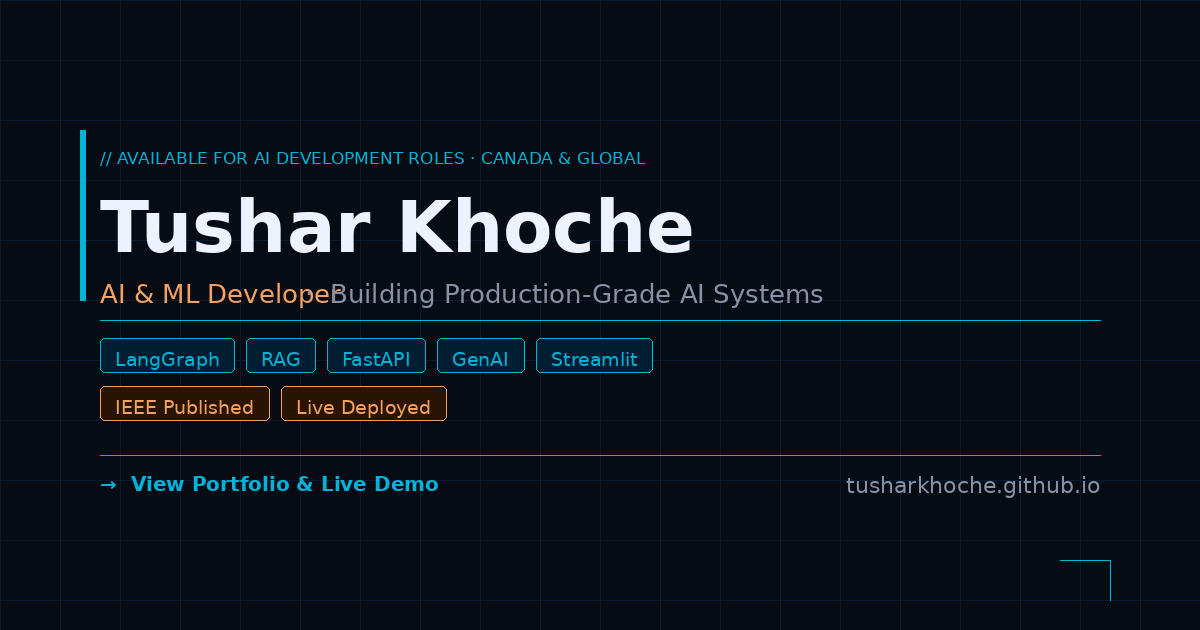
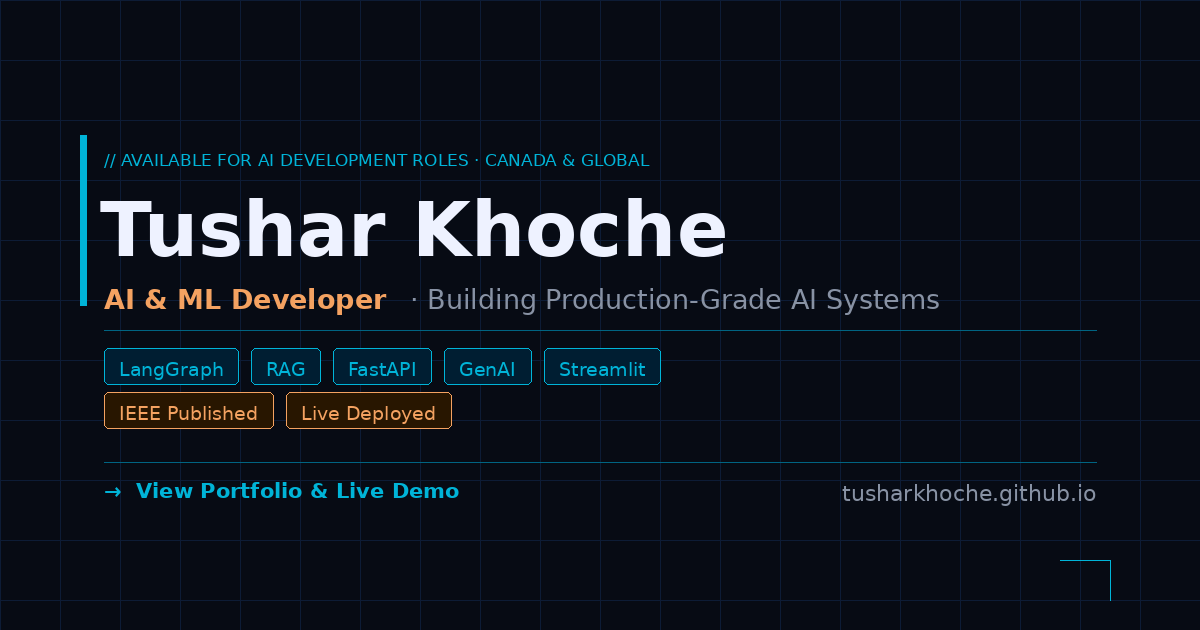
Add files via upload

diff --git a/index.html b/index.html
@@ -601,7 +601,7 @@
     <li><a href="#projects">Projects</a></li>
     <li><a href="#skills">Skills</a></li>
     <li><a href="#experience">Experience</a></li>
-    <li><a href="#publication">Research</a></li>
+    <li><a href="#publication">Writing</a></li>
     <li><a href="#contact">Contact</a></li>
     <li><a href="https://drive.google.com/file/d/1JTp6c3ZKfDNvMgcnQy5kVGKwlZhStLx7/view?usp=sharing" target="_blank" style="color:var(--accent2);border:1px solid rgba(244,162,97,0.4);padding:0.3rem 0.85rem;border-radius:4px;">Resume ↗</a></li>
   </ul>
@@ -965,7 +965,7 @@
 <!-- ── PUBLICATION ── -->
 <section id="publication">
   <p class="section-label reveal">// 05 · Research</p>
-  <h2 class="section-title reveal">Publication</h2>
+  <h2 class="section-title reveal">Publications &amp; Writing</h2>
   <div class="pub-card reveal">
     <div class="pub-badge">📄</div>
     <div class="pub-content">
@@ -977,6 +977,67 @@
       <a href="https://ieeexplore.ieee.org/document/9791545" target="_blank" class="btn btn-outline" style="font-size:0.72rem;padding:0.6rem 1.25rem;">
         View on IEEE Xplore ↗
       </a>
+    </div>
+  </div>
+
+  <!-- Technical Writing -->
+  <div style="margin-top:2.5rem;">
+    <p style="font-family:'IBM Plex Mono',monospace;font-size:0.78rem;color:var(--accent);text-transform:uppercase;letter-spacing:0.08em;margin-bottom:0.5rem;">Technical Writing · Kaggle</p>
+    <p style="color:var(--text-sub);font-size:0.95rem;margin-bottom:1.8rem;max-width:640px;">
+      In-depth notebooks breaking down deep learning concepts from first principles — written to teach, with worked examples and intuition over jargon.
+    </p>
+
+    <!-- Transformer Series -->
+    <div class="pub-card reveal" style="margin-bottom:1.2rem;">
+      <div class="pub-badge">🧠</div>
+      <div class="pub-content">
+        <p class="pub-journal">3-Part Series · Deep Learning Architecture</p>
+        <h3 class="pub-title">What is a Transformer?</h3>
+        <p class="pub-desc">
+          A ground-up explanation of the transformer architecture from "Attention Is All You Need" — why it replaced LSTMs, self-attention with Query/Key/Value vectors, dot-product attention scoring, softmax weighting, and how multiple attention layers combine into multi-head attention within an encoder-decoder model. Intuition-first, with original worked examples.
+        </p>
+        <div style="display:flex;flex-wrap:wrap;gap:0.5rem;">
+          <a href="https://www.kaggle.com/code/tusharkhoche/what-is-a-transformer-part-1" target="_blank" class="btn btn-outline" style="font-size:0.7rem;padding:0.5rem 1rem;">Part 1 ↗</a>
+          <a href="https://www.kaggle.com/code/tusharkhoche/what-is-a-transformer-part-2" target="_blank" class="btn btn-outline" style="font-size:0.7rem;padding:0.5rem 1rem;">Part 2 ↗</a>
+          <a href="https://www.kaggle.com/code/tusharkhoche/what-is-a-transformer-part-3" target="_blank" class="btn btn-outline" style="font-size:0.7rem;padding:0.5rem 1rem;">Part 3 ↗</a>
+        </div>
+      </div>
+    </div>
+
+    <!-- Seq2Seq LSTM Series -->
+    <div class="pub-card reveal" style="margin-bottom:1.2rem;">
+      <div class="pub-badge">🔁</div>
+      <div class="pub-content">
+        <p class="pub-journal">5-Part Series · NLP &amp; Sequence Models</p>
+        <h3 class="pub-title">Seq2Seq &amp; LSTM Encoder-Decoder</h3>
+        <p class="pub-desc">
+          A complete learning arc through sequence models: how simple RNNs work and their limitations, LSTM cell/hidden state memory, LSTM backpropagation, and the encoder-decoder architecture — culminating in a full hands-on Seq2Seq implementation (90+ code cells). The foundation that leads directly into attention and transformers.
+        </p>
+        <div style="display:flex;flex-wrap:wrap;gap:0.5rem;">
+          <a href="https://www.kaggle.com/code/tusharkhoche/seq2seq-lstm-concept-part-01" target="_blank" class="btn btn-outline" style="font-size:0.7rem;padding:0.5rem 1rem;">Part 1 ↗</a>
+          <a href="https://www.kaggle.com/code/tusharkhoche/seq2seq-lstm-concept-part-02" target="_blank" class="btn btn-outline" style="font-size:0.7rem;padding:0.5rem 1rem;">Part 2 ↗</a>
+          <a href="https://www.kaggle.com/code/tusharkhoche/seq2seq-lstm-concept-part-03" target="_blank" class="btn btn-outline" style="font-size:0.7rem;padding:0.5rem 1rem;">Part 3 ↗</a>
+          <a href="https://www.kaggle.com/code/tusharkhoche/seq2seq-lstm-concept-part-04" target="_blank" class="btn btn-outline" style="font-size:0.7rem;padding:0.5rem 1rem;">Part 4 ↗</a>
+          <a href="https://www.kaggle.com/code/tusharkhoche/seq2seq-lstm-encoder-decoder-implementation" target="_blank" class="btn btn-outline" style="font-size:0.7rem;padding:0.5rem 1rem;">Implementation ↗</a>
+        </div>
+      </div>
+    </div>
+
+    <!-- ML Fundamentals -->
+    <div class="pub-card reveal">
+      <div class="pub-badge">📊</div>
+      <div class="pub-content">
+        <p class="pub-journal">ML Fundamentals · Maths &amp; Data Analysis</p>
+        <h3 class="pub-title">Neural Network Maths &amp; Applied ML</h3>
+        <p class="pub-desc">
+          Foundational notebooks bridging theory and applied practice: the mathematics of a simple neural network worked through from derivatives and backpropagation by hand, an in-depth Parkinson's disease dataset analysis (180+ code cells), and a beginner-friendly cardio fitness exploratory data analysis.
+        </p>
+        <div style="display:flex;flex-wrap:wrap;gap:0.5rem;">
+          <a href="https://www.kaggle.com/code/tusharkhoche/mathematics-of-a-simple-neural-network" target="_blank" class="btn btn-outline" style="font-size:0.7rem;padding:0.5rem 1rem;">NN Maths ↗</a>
+          <a href="https://www.kaggle.com/code/tusharkhoche/parkinsons-disease-dataset-analysis" target="_blank" class="btn btn-outline" style="font-size:0.7rem;padding:0.5rem 1rem;">Parkinson's Analysis ↗</a>
+          <a href="https://www.kaggle.com/code/tusharkhoche/cardio-fitness-eda-beginner-friendly" target="_blank" class="btn btn-outline" style="font-size:0.7rem;padding:0.5rem 1rem;">Cardio EDA ↗</a>
+        </div>
+      </div>
     </div>
   </div>
 </section>
